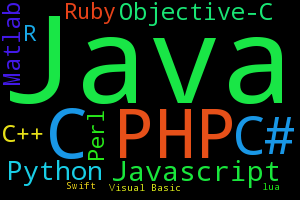
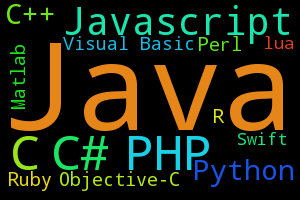
IN

diff --git a/IN.js b/IN.js
@@ -1,47 +1,47 @@
     // data
 // begin Top IN
 TopPlusMinus = [1,1,2]
-PlusMinus = [-0.677916666667,0.13415]
+PlusMinus = [-0.250733333333,0.1342]
 // end Top IN
 graphData = [
 ['Date', // begin section languages
-'Java', 'PHP', 'Python', 'C#', 'Javascript', 'C++', 'C', 'Objective-C', 'Visual Basic', 'Ruby', 'Swift', 'R', 'Perl', 'Matlab', 'lua'
+'Java', 'PHP', 'Python', 'C#', 'C', 'Javascript', 'C++', 'Objective-C', 'Visual Basic', 'Ruby', 'Swift', 'R', 'Perl', 'Matlab', 'lua'
 // end section languages
 ],
 // begin section IN
-[new Date(2004,1,1), 1.0,0.0,0.0,0.0,0.0,0.0,0.0,0.0,0.0,0.0,0.0,0.0,0.0,0.0,0.0],
-[new Date(2004,5,1), 1.0,0.0,0.0,0.0,0.0,0.0,0.0,0.0,0.0,0.0,0.0,0.0,0.0,0.0,0.0],
-[new Date(2004,9,1), 1.0,0.0,0.0,0.0,0.0,0.0,0.0,0.0,0.0,0.0,0.0,0.0,0.0,0.0,0.0],
-[new Date(2005,1,1), 0.911,0.003,0.0,0.0,0.022,0.03,0.033,0.0,0.0,0.0,0.0,0.0,0.0,0.0,0.0],
-[new Date(2005,5,1), 0.53,0.074,0.0,0.03,0.098,0.122,0.145,0.0,0.0,0.0,0.0,0.0,0.0,0.0,0.0],
-[new Date(2005,9,1), 0.469,0.068,0.0,0.06,0.099,0.134,0.169,0.0,0.0,0.0,0.0,0.0,0.0,0.0,0.0],
-[new Date(2006,1,1), 0.445,0.11,0.0,0.054,0.105,0.128,0.158,0.0,0.0,0.0,0.0,0.0,0.0,0.0,0.0],
-[new Date(2006,5,1), 0.423,0.116,0.0,0.076,0.107,0.122,0.156,0.0,0.0,0.0,0.0,0.0,0.0,0.0,0.0],
-[new Date(2006,9,1), 0.414,0.117,0.0,0.096,0.098,0.119,0.156,0.0,0.0,0.0,0.0,0.0,0.0,0.0,0.0],
-[new Date(2007,1,1), 0.423,0.117,0.0,0.094,0.099,0.114,0.153,0.0,0.0,0.0,0.0,0.0,0.0,0.0,0.0],
-[new Date(2007,5,1), 0.423,0.121,0.0,0.086,0.094,0.102,0.144,0.0,0.015,0.0,0.0,0.0,0.015,0.0,0.0],
-[new Date(2007,9,1), 0.377,0.129,0.0,0.074,0.098,0.101,0.131,0.0,0.042,0.0,0.0,0.0,0.048,0.0,0.0],
-[new Date(2008,1,1), 0.392,0.131,0.0,0.08,0.096,0.106,0.143,0.0,0.025,0.0,0.0,0.0,0.027,0.0,0.0],
-[new Date(2008,5,1), 0.413,0.145,0.0,0.095,0.101,0.104,0.132,0.0,0.004,0.0,0.0,0.0,0.004,0.0,0.0],
-[new Date(2008,9,1), 0.403,0.167,0.0,0.094,0.095,0.1,0.141,0.0,0.0,0.0,0.0,0.0,0.0,0.0,0.0],
-[new Date(2009,1,1), 0.399,0.174,0.002,0.082,0.095,0.094,0.141,0.0,0.008,0.0,0.0,0.0,0.005,0.0,0.0],
-[new Date(2009,5,1), 0.359,0.178,0.019,0.079,0.095,0.099,0.124,0.0,0.021,0.0,0.0,0.0,0.021,0.007,0.0],
-[new Date(2009,9,1), 0.318,0.172,0.03,0.059,0.102,0.094,0.13,0.0,0.034,0.0,0.0,0.0,0.041,0.021,0.0],
-[new Date(2010,1,1), 0.326,0.164,0.026,0.053,0.081,0.093,0.152,0.0,0.033,0.0,0.0,0.0,0.043,0.029,0.0],
-[new Date(2010,5,1), 0.352,0.151,0.024,0.051,0.079,0.084,0.159,0.0,0.03,0.0,0.0,0.0,0.041,0.031,0.0],
-[new Date(2010,9,1), 0.354,0.147,0.027,0.05,0.082,0.082,0.158,0.0,0.028,0.0,0.0,0.0,0.039,0.032,0.0],
-[new Date(2011,1,1), 0.36,0.143,0.028,0.048,0.083,0.077,0.161,0.0,0.028,0.002,0.0,0.0,0.039,0.03,0.0],
-[new Date(2011,5,1), 0.354,0.151,0.026,0.046,0.075,0.071,0.166,0.0,0.028,0.013,0.0,0.0,0.036,0.032,0.0],
-[new Date(2011,9,1), 0.337,0.152,0.027,0.042,0.074,0.075,0.186,0.002,0.025,0.014,0.0,0.0,0.033,0.032,0.0],
-[new Date(2012,1,1), 0.329,0.157,0.032,0.059,0.085,0.067,0.161,0.009,0.025,0.012,0.0,0.001,0.031,0.032,0.0],
-[new Date(2012,5,1), 0.344,0.164,0.036,0.083,0.08,0.058,0.12,0.012,0.025,0.013,0.0,0.004,0.029,0.031,0.0],
-[new Date(2012,9,1), 0.341,0.16,0.037,0.085,0.073,0.071,0.116,0.017,0.024,0.014,0.0,0.004,0.028,0.029,0.0],
-[new Date(2013,1,1), 0.331,0.159,0.04,0.087,0.073,0.071,0.109,0.022,0.022,0.015,0.0,0.01,0.027,0.033,0.0],
-[new Date(2013,5,1), 0.325,0.154,0.049,0.092,0.087,0.065,0.096,0.03,0.021,0.015,0.0,0.01,0.026,0.03,0.0],
-[new Date(2013,9,1), 0.316,0.148,0.053,0.092,0.09,0.068,0.098,0.035,0.021,0.015,0.0,0.011,0.024,0.029,0.0],
-[new Date(2014,1,1), 0.32,0.141,0.055,0.09,0.084,0.065,0.104,0.039,0.02,0.016,0.0,0.011,0.024,0.031,0.0],
-[new Date(2014,5,1), 0.323,0.142,0.056,0.095,0.089,0.058,0.096,0.044,0.019,0.015,0.0,0.01,0.022,0.03,0.0],
-[new Date(2014,9,1), 0.324,0.134,0.059,0.094,0.083,0.064,0.1,0.045,0.015,0.016,0.005,0.013,0.02,0.028,0.0],
-[new Date(2015,1,1), 0.322,0.134,0.069,0.088,0.084,0.066,0.099,0.044,0.014,0.015,0.008,0.014,0.017,0.027,0.0]
+[new Date(2004,1,1), 0.572,0.0,0.0,0.0,0.235,0.0,0.194,0.0,0.0,0.0,0.0,0.0,0.0,0.0,0.0],
+[new Date(2004,5,1), 0.578,0.0,0.0,0.0,0.261,0.0,0.161,0.0,0.0,0.0,0.0,0.0,0.0,0.0,0.0],
+[new Date(2004,9,1), 0.569,0.0,0.0,0.0,0.231,0.0,0.2,0.0,0.0,0.0,0.0,0.0,0.0,0.0,0.0],
+[new Date(2005,1,1), 0.554,0.0,0.0,0.0,0.228,0.024,0.195,0.0,0.0,0.0,0.0,0.0,0.0,0.0,0.0],
+[new Date(2005,5,1), 0.494,0.063,0.0,0.0,0.192,0.103,0.149,0.0,0.0,0.0,0.0,0.0,0.0,0.0,0.0],
+[new Date(2005,9,1), 0.466,0.095,0.0,0.0,0.172,0.117,0.151,0.0,0.0,0.0,0.0,0.0,0.0,0.0,0.0],
+[new Date(2006,1,1), 0.451,0.115,0.0,0.007,0.173,0.111,0.143,0.0,0.0,0.0,0.0,0.0,0.0,0.0,0.0],
+[new Date(2006,5,1), 0.43,0.118,0.0,0.069,0.163,0.102,0.118,0.0,0.0,0.0,0.0,0.0,0.0,0.0,0.0],
+[new Date(2006,9,1), 0.413,0.12,0.0,0.087,0.154,0.107,0.119,0.0,0.0,0.0,0.0,0.0,0.0,0.0,0.0],
+[new Date(2007,1,1), 0.428,0.115,0.0,0.079,0.145,0.109,0.122,0.0,0.002,0.0,0.0,0.0,0.0,0.0,0.0],
+[new Date(2007,5,1), 0.403,0.119,0.0,0.08,0.134,0.1,0.11,0.0,0.033,0.0,0.0,0.0,0.021,0.0,0.0],
+[new Date(2007,9,1), 0.383,0.132,0.0,0.071,0.127,0.11,0.106,0.0,0.034,0.0,0.0,0.0,0.039,0.0,0.0],
+[new Date(2008,1,1), 0.381,0.136,0.0,0.077,0.13,0.108,0.103,0.0,0.038,0.0,0.0,0.0,0.028,0.0,0.0],
+[new Date(2008,5,1), 0.4,0.145,0.0,0.092,0.123,0.107,0.102,0.0,0.031,0.0,0.0,0.0,0.0,0.0,0.0],
+[new Date(2008,9,1), 0.392,0.164,0.0,0.088,0.136,0.102,0.103,0.0,0.015,0.0,0.0,0.0,0.0,0.0,0.0],
+[new Date(2009,1,1), 0.38,0.164,0.0,0.083,0.136,0.1,0.094,0.0,0.036,0.0,0.0,0.0,0.006,0.0,0.0],
+[new Date(2009,5,1), 0.348,0.167,0.016,0.081,0.113,0.094,0.095,0.0,0.049,0.0,0.0,0.0,0.032,0.007,0.0],
+[new Date(2009,9,1), 0.318,0.17,0.032,0.062,0.126,0.102,0.095,0.0,0.034,0.0,0.0,0.0,0.041,0.021,0.0],
+[new Date(2010,1,1), 0.331,0.164,0.029,0.055,0.147,0.084,0.09,0.0,0.032,0.0,0.0,0.0,0.041,0.028,0.0],
+[new Date(2010,5,1), 0.358,0.153,0.026,0.049,0.152,0.079,0.084,0.0,0.029,0.0,0.0,0.0,0.04,0.03,0.0],
+[new Date(2010,9,1), 0.356,0.145,0.03,0.051,0.155,0.081,0.087,0.0,0.027,0.0,0.0,0.0,0.038,0.03,0.0],
+[new Date(2011,1,1), 0.363,0.143,0.028,0.05,0.163,0.084,0.082,0.0,0.024,0.003,0.0,0.0,0.034,0.027,0.0],
+[new Date(2011,5,1), 0.358,0.154,0.027,0.047,0.166,0.078,0.071,0.0,0.024,0.013,0.0,0.0,0.031,0.03,0.0],
+[new Date(2011,9,1), 0.338,0.154,0.028,0.042,0.183,0.076,0.075,0.0,0.025,0.014,0.0,0.0,0.033,0.032,0.0],
+[new Date(2012,1,1), 0.336,0.156,0.033,0.058,0.16,0.089,0.065,0.002,0.025,0.012,0.0,0.001,0.031,0.032,0.0],
+[new Date(2012,5,1), 0.35,0.162,0.035,0.083,0.121,0.082,0.058,0.01,0.024,0.013,0.0,0.004,0.028,0.03,0.0],
+[new Date(2012,9,1), 0.345,0.158,0.036,0.085,0.117,0.073,0.072,0.017,0.024,0.014,0.0,0.004,0.028,0.028,0.0],
+[new Date(2013,1,1), 0.334,0.159,0.039,0.086,0.108,0.074,0.07,0.023,0.022,0.015,0.0,0.01,0.028,0.033,0.0],
+[new Date(2013,5,1), 0.325,0.155,0.047,0.095,0.097,0.086,0.063,0.03,0.022,0.015,0.0,0.01,0.026,0.03,0.0],
+[new Date(2013,9,1), 0.317,0.145,0.055,0.091,0.099,0.088,0.068,0.034,0.021,0.015,0.0,0.011,0.025,0.03,0.0],
+[new Date(2014,1,1), 0.322,0.139,0.055,0.091,0.103,0.085,0.066,0.039,0.019,0.015,0.0,0.011,0.023,0.03,0.0],
+[new Date(2014,5,1), 0.324,0.141,0.056,0.096,0.096,0.089,0.06,0.046,0.018,0.014,0.0,0.01,0.021,0.029,0.0],
+[new Date(2014,9,1), 0.324,0.133,0.059,0.094,0.099,0.082,0.065,0.047,0.015,0.016,0.005,0.013,0.02,0.028,0.0],
+[new Date(2015,1,1), 0.321,0.134,0.07,0.088,0.099,0.084,0.063,0.044,0.014,0.016,0.007,0.014,0.018,0.028,0.0]
 // end section IN
         ];

diff --git a/PYPL.html b/PYPL.html
@@ -183,20 +183,20 @@ table = "<!-- begin section DE-->\
 if (getUrlParameter('country') == "IN") {
 cloud = "IN.png"
 table = "<!-- begin section IN-->\
-<td class=center>1</td><td class=center></td><td>Java</td><td class=right>32.2 %</td><td class=\"right optCol\">+0.1 %</td></tr>\
-<tr><td class=center>2</td><td class=center></td><td>PHP</td><td class=right>13.4 %</td><td class=\"right optCol\">-1.4 %</td></tr>\
-<tr><td class=center>3</td><td class=center></td><td>C</td><td class=right>9.9 %</td><td class=\"right optCol\">+0.1 %</td></tr>\
-<tr><td class=center>4</td><td class=center></td><td>C#</td><td class=right>8.8 %</td><td class=\"right optCol\">-0.4 %</td></tr>\
+<td class=center>1</td><td class=center></td><td>Java</td><td class=right>32.1 %</td><td class=\"right optCol\">-0.3 %</td></tr>\
+<tr><td class=center>2</td><td class=center></td><td>PHP</td><td class=right>13.4 %</td><td class=\"right optCol\">-1.1 %</td></tr>\
+<tr><td class=center>3</td><td class=center></td><td>C</td><td class=right>9.9 %</td><td class=\"right optCol\">+0.2 %</td></tr>\
+<tr><td class=center>4</td><td class=center></td><td>C#</td><td class=right>8.8 %</td><td class=\"right optCol\">-0.6 %</td></tr>\
 <tr><td class=center>5</td><td class=center></td><td>Javascript</td><td class=right>8.4 %</td><td class=\"right optCol\">-0.7 %</td></tr>\
-<tr><td class=center>6</td><td class=center><image src=Up.png></td><td>Python</td><td class=right>6.9 %</td><td class=\"right optCol\">+1.5 %</td></tr>\
-<tr><td class=center>7</td><td class=center><image src=Down.png></td><td>C++</td><td class=right>6.6 %</td><td class=\"right optCol\">+0.8 %</td></tr>\
-<tr><td class=center>8</td><td class=center></td><td>Objective-C</td><td class=right>4.4 %</td><td class=\"right optCol\">+0.2 %</td></tr>\
-<tr><td class=center>9</td><td class=center></td><td>Matlab</td><td class=right>2.7 %</td><td class=\"right optCol\">-0.4 %</td></tr>\
-<tr><td class=center>10</td><td class=center></td><td>Perl</td><td class=right>1.7 %</td><td class=\"right optCol\">-0.7 %</td></tr>\
-<tr><td class=center>11</td><td class=center><image src=Up.png></td><td>Ruby</td><td class=right>1.5 %</td><td class=\"right optCol\">+0.1 %</td></tr>\
+<tr><td class=center>6</td><td class=center><image src=Up.png></td><td>Python</td><td class=right>7.0 %</td><td class=\"right optCol\">+1.6 %</td></tr>\
+<tr><td class=center>7</td><td class=center><image src=Down.png></td><td>C++</td><td class=right>6.3 %</td><td class=\"right optCol\">+0.4 %</td></tr>\
+<tr><td class=center>8</td><td class=center></td><td>Objective-C</td><td class=right>4.4 %</td><td class=\"right optCol\">+0.1 %</td></tr>\
+<tr><td class=center>9</td><td class=center></td><td>Matlab</td><td class=right>2.8 %</td><td class=\"right optCol\">-0.2 %</td></tr>\
+<tr><td class=center>10</td><td class=center></td><td>Perl</td><td class=right>1.8 %</td><td class=\"right optCol\">-0.5 %</td></tr>\
+<tr><td class=center>11</td><td class=center><image src=Up.png></td><td>Ruby</td><td class=right>1.6 %</td><td class=\"right optCol\">+0.2 %</td></tr>\
 <tr><td class=center>12</td><td class=center><image src=Up.png></td><td>R</td><td class=right>1.4 %</td><td class=\"right optCol\">+0.5 %</td></tr>\
-<tr><td class=center>13</td><td class=center><image src=Down.png><image src=Down.png></td><td>Visual Basic</td><td class=right>1.4 %</td><td class=\"right optCol\">-0.8 %</td></tr>\
-<tr><td class=center>14</td><td class=center><image src=Up.png></td><td>Swift</td><td class=right>0.8 %</td><td class=\"right optCol\">+1.2 %</td></tr>\
+<tr><td class=center>13</td><td class=center><image src=Down.png><image src=Down.png></td><td>Visual Basic</td><td class=right>1.4 %</td><td class=\"right optCol\">-0.7 %</td></tr>\
+<tr><td class=center>14</td><td class=center><image src=Up.png></td><td>Swift</td><td class=right>0.7 %</td><td class=\"right optCol\">+1.2 %</td></tr>\
 <tr><td class=center>15</td><td class=center><image src=Down.png></td><td>lua</td><td class=right>0.0 %</td><td class=\"right optCol\">+0.0 %</td>\
 <!-- end section IN-->\
 ";
@@ -417,7 +417,7 @@ document.getElementById("cloud").src=cloud;
 $.ajaxSetup({async:false});
 if (getUrlParameter('country') == "US") {$.getScript("US.js?t=axbUS6277USbxa")}
 if (getUrlParameter('country') == "DE") {$.getScript("DE.js?t=axbDE2652DEbxa")}
-if (getUrlParameter('country') == "IN") {$.getScript("IN.js?t=axbIN1743INbxa")}
+if (getUrlParameter('country') == "IN") {$.getScript("IN.js?t=axbIN6455INbxa")}
 $.ajaxSetup({async:true});
 
 document.getElementById('topBottom').innerHTML = String.format('{0} is the most popular language, {3} grew the most since 2004 ({4}%) and {1} lost the most ({2}%)', 
